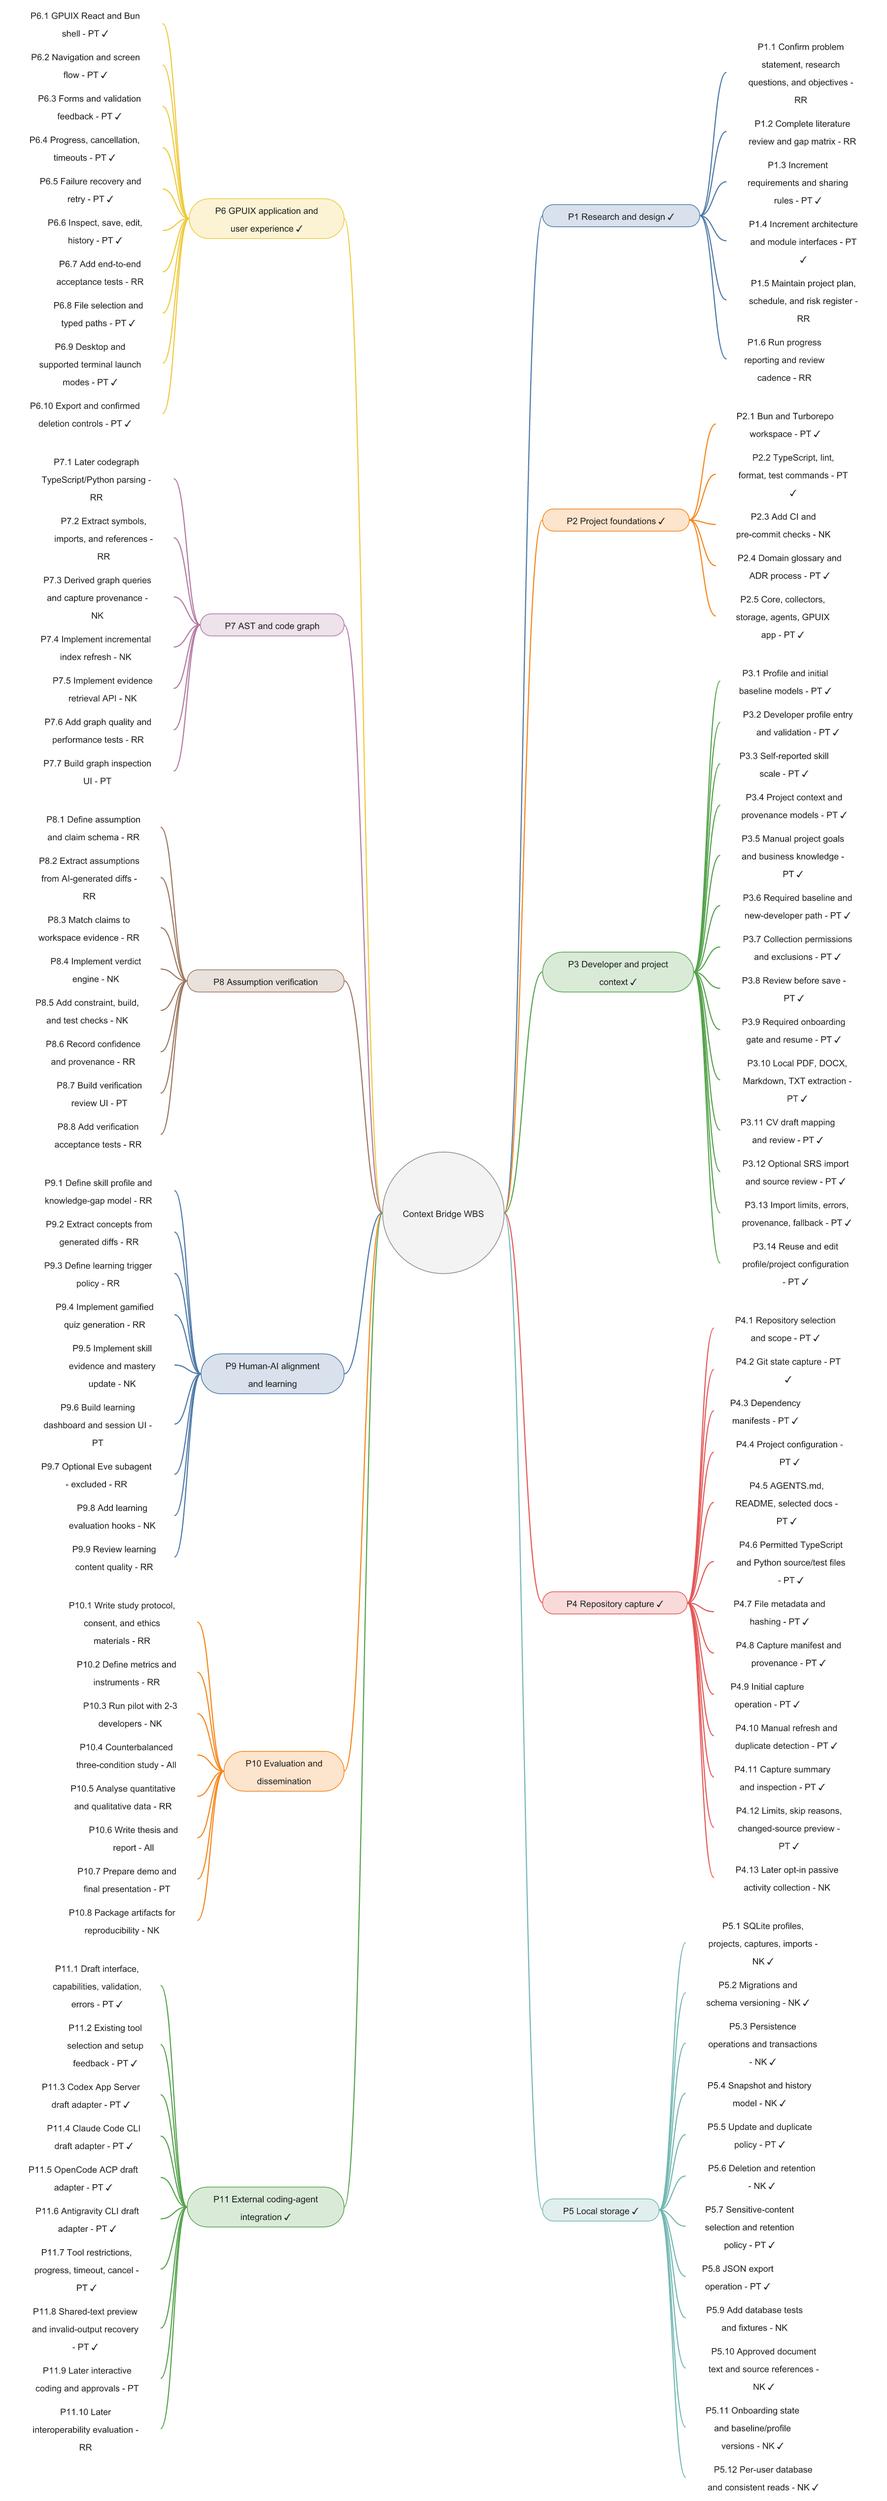
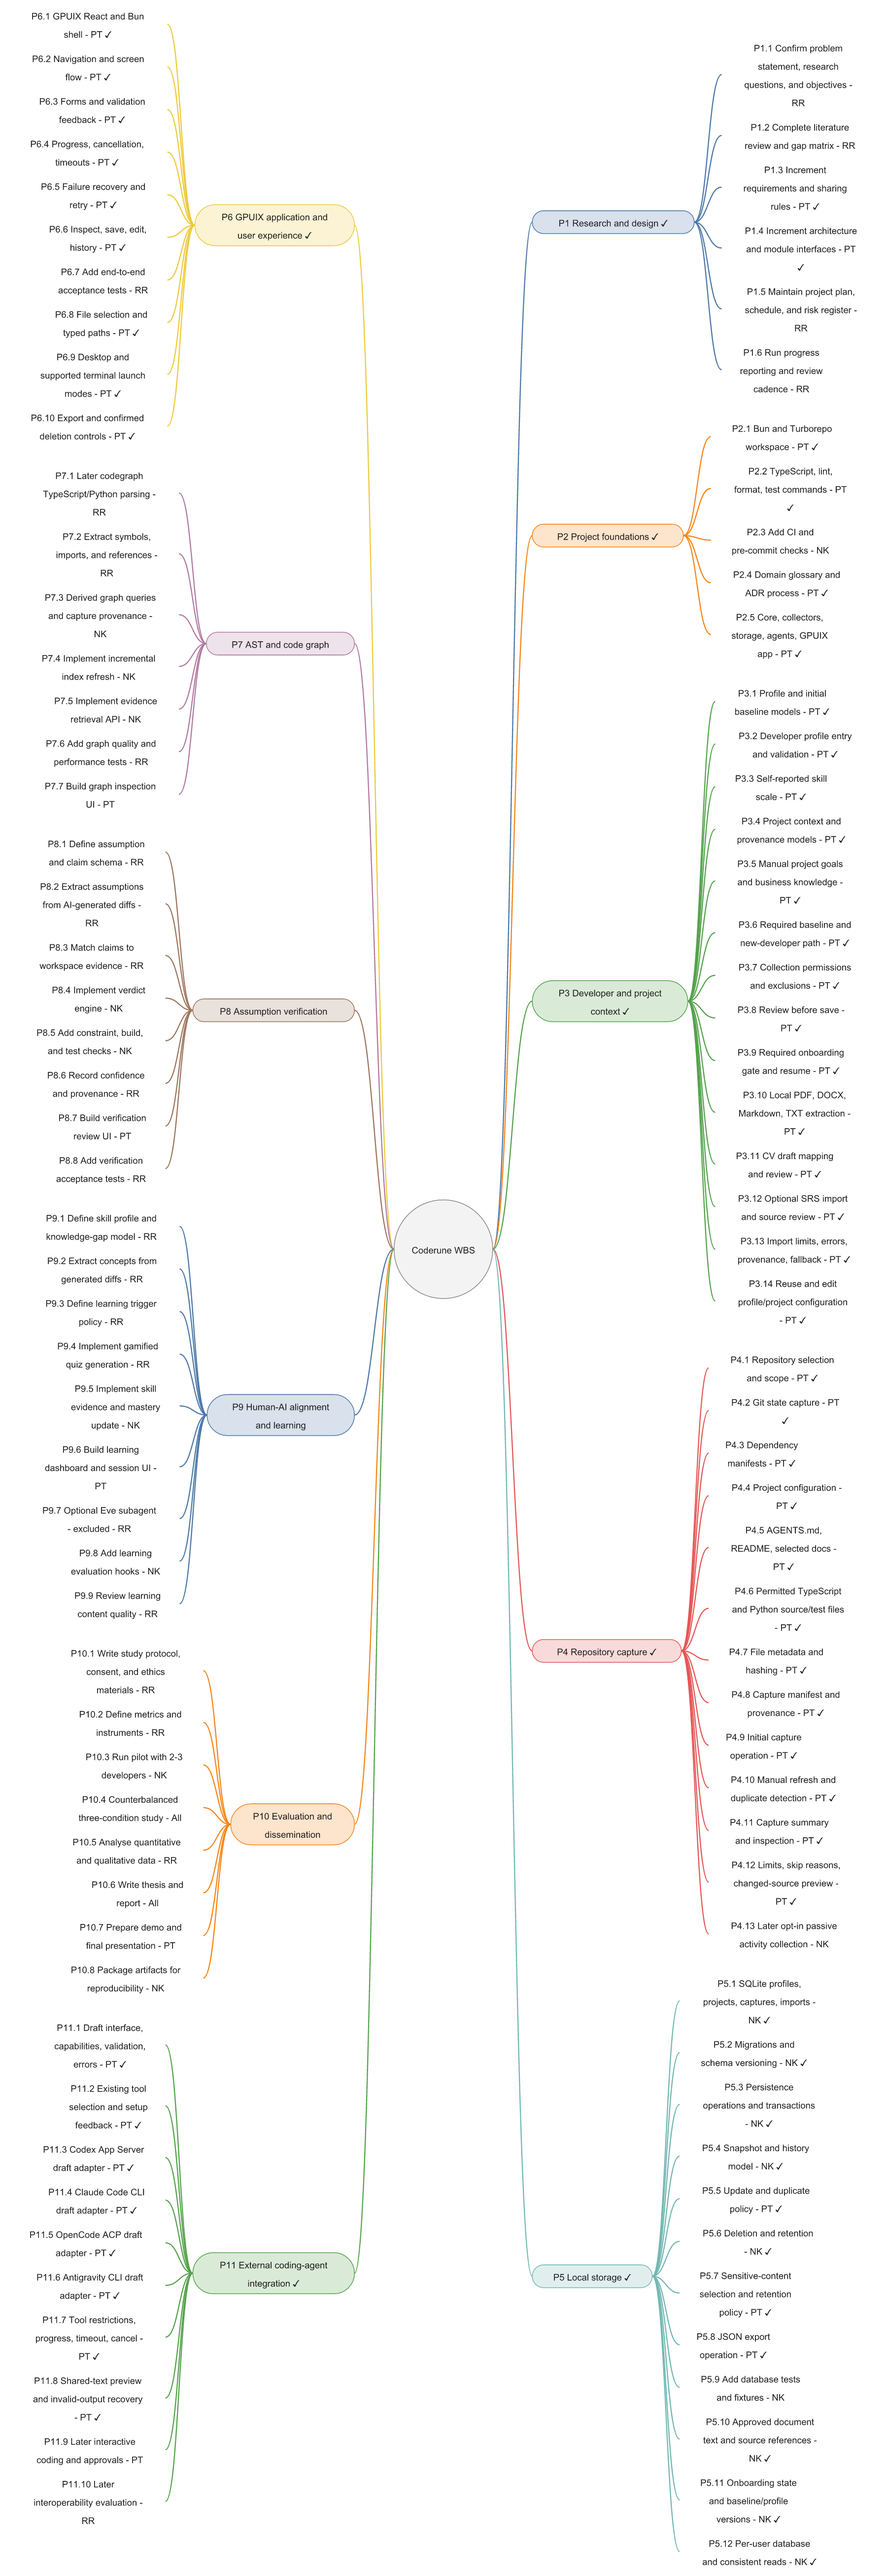
docs: rebrand project references to Coderune

diff --git a/docs/data-collection-design.md b/docs/data-collection-design.md
@@ -11,7 +11,7 @@ Status: interview round complete; scope confirmed by the developer on 2026-10-22
 - One developer profile is reused across projects. Each project has its own goals, rules, and collection permissions.
 - Developer onboarding is mandatory before starting project work. Completing and confirming the profile establishes the starting information needed by later learning and gamification features; those features are not implemented in this increment.
 - Completing onboarding requires a display name or pseudonym, self-reported experience stage, an initial skills statement, and at least one learning goal. New developers can explicitly state that they are new to coding. A CV and prior employment are not required.
-- Connect the developer's existing coding agents, targeting Codex, Claude Code, OpenCode, and Antigravity. The selected agent handles its own model providers and authentication. Context Bridge owns the developer/project context and integration, rather than managing model accounts or agent sign-in.
+- Connect the developer's existing coding agents, targeting Codex, Claude Code, OpenCode, and Antigravity. The selected agent handles its own model providers and authentication. Coderune owns the developer/project context and integration, rather than managing model accounts or agent sign-in.
 - Implement the first increment in TypeScript with Bun and SQLite.
 - Do not use PostgreSQL/pgvector. Prefer local AST and graph tooling with embedded storage for later code structure retrieval.
 - Collect repository context on explicit request, with an initial capture and a manual refresh operation.
@@ -75,7 +75,7 @@ The onboarding step is required before starting any project, including an existi
 ## External coding-agent decision
 
 - Replace the proposed direct OpenAI-compatible endpoint with connections to the developer's existing coding tools, following the external-agent approach used by Zed.
-- Leave sign-in, tokens, model selection, and provider configuration with the coding agent. Context Bridge should report a missing installation or required sign-in and direct the developer to the selected tool's own setup flow. Do not read or copy its credential files into application records or exports.
+- Leave sign-in, tokens, model selection, and provider configuration with the coding agent. Coderune should report a missing installation or required sign-in and direct the developer to the selected tool's own setup flow. Do not read or copy its credential files into application records or exports.
 - Show the selected agent and the document text/context to be shared before an import run. Local extraction and local storage do not imply that the selected agent performs inference locally.
 - Validate agent-generated fields against the import draft schema, preserve source references, and require review before saving them as confirmed profile/project information. Schema-valid output can still contain incorrect claims.
 - Do not silently change to another agent, provider, or model when a connection fails. Keep manual entry available.
@@ -97,7 +97,7 @@ Checked against primary documentation on 2026-10-22. These are documented capabi
 
 [Zed's external-agent boundary](https://zed.dev/docs/ai/external-agents#configuration-boundaries) is the integration reference. ACP currently documents [v1 as the stable protocol](https://agentclientprotocol.com/protocol/v1/initialization) and provides a [TypeScript SDK](https://agentclientprotocol.com/libraries/typescript). Rich interactive hosting needs streamed session updates, cancellation, and visible permission requests. ACP itself does not sandbox an agent or guarantee schema-enforced output; capabilities and execution restrictions need checking per adapter.
 
-Claude's native CLI and SDK paths must remain distinct. Its [CLI reference](https://code.claude.com/docs/en/cli-reference) documents that `--bare` excludes OAuth/keychain/subscription login; ordinary CLI configuration is the relevant candidate for a user-owned installation. The [Agent SDK overview](https://code.claude.com/docs/en/agent-sdk/overview#get-started) separately constrains third-party sign-in offerings. Context Bridge will not offer its own agent login or assume a third-party bridge inherits Zed's authentication arrangements.
+Claude's native CLI and SDK paths must remain distinct. Its [CLI reference](https://code.claude.com/docs/en/cli-reference) documents that `--bare` excludes OAuth/keychain/subscription login; ordinary CLI configuration is the relevant candidate for a user-owned installation. The [Agent SDK overview](https://code.claude.com/docs/en/agent-sdk/overview#get-started) separately constrains third-party sign-in offerings. Coderune will not offer its own agent login or assume a third-party bridge inherits Zed's authentication arrangements.
 
 ### Confirmed integration structure and increment boundary
 

diff --git a/README.md b/README.md
@@ -1,4 +1,4 @@
-# Context Bridge
+# Coderune
 
 Research into local shared context and assumption verification for AI coding assistants.
 
@@ -20,5 +20,5 @@ bun install
 Pele is installed for diagrams. Matt Pocock's skills are installed in `.agents/skills`
 and recorded in `skills-lock.json`.
 
-Issues and specs will use [GitHub Issues](https://github.com/universitysjp/context-bridge/issues).
+Issues and specs will use [GitHub Issues](https://github.com/universitysjp/coderune/issues).
 Skills conventions are documented in [docs/agents/](docs/agents/).

diff --git a/docs/wbs/work-breakdown-structure.md b/docs/wbs/work-breakdown-structure.md
@@ -37,7 +37,7 @@ into SVG, then `@resvg/resvg-js` converts it to PNG.
 - [work-breakdown-structure.svg](work-breakdown-structure.svg)
 - [work-breakdown-structure.png](work-breakdown-structure.png)
 
-![Context Bridge work breakdown structure](work-breakdown-structure.png)
+![Coderune work breakdown structure](work-breakdown-structure.png)
 
 Run `bun run wbs:render` after editing the Mermaid source.
 

diff --git a/docs/agents/issue-tracker.md b/docs/agents/issue-tracker.md
@@ -1,7 +1,7 @@
 # Issue tracker: GitHub
 
-Issues and specs live in `universitysjp/context-bridge` on GitHub. Use the `gh` CLI.
-Run commands in this checkout, or pass `--repo universitysjp/context-bridge` explicitly.
+Issues and specs live in `universitysjp/coderune` on GitHub. Use the `gh` CLI.
+Run commands in this checkout, or pass `--repo universitysjp/coderune` explicitly.
 
 ## Conventions
 

diff --git a/GLOSSARY.md b/GLOSSARY.md
@@ -1,4 +1,4 @@
-# Context Bridge
+# Coderune
 
 Shared vocabulary for collecting developer and project context for AI coding assistants.
 
